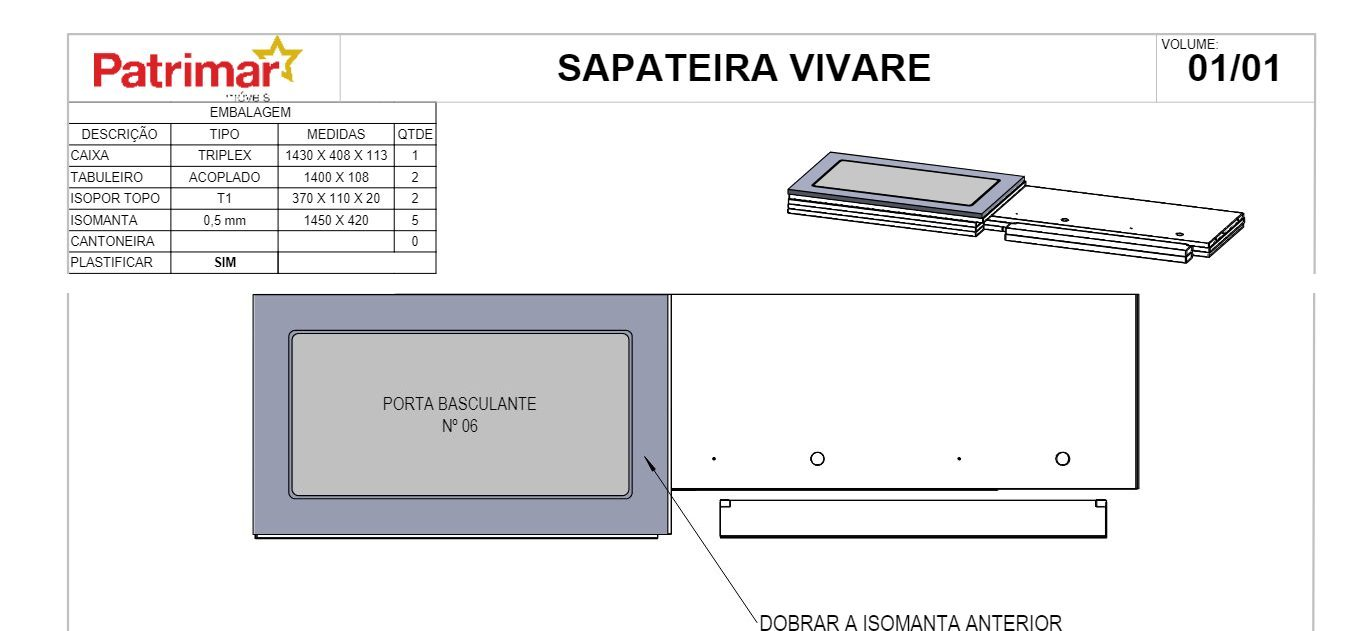
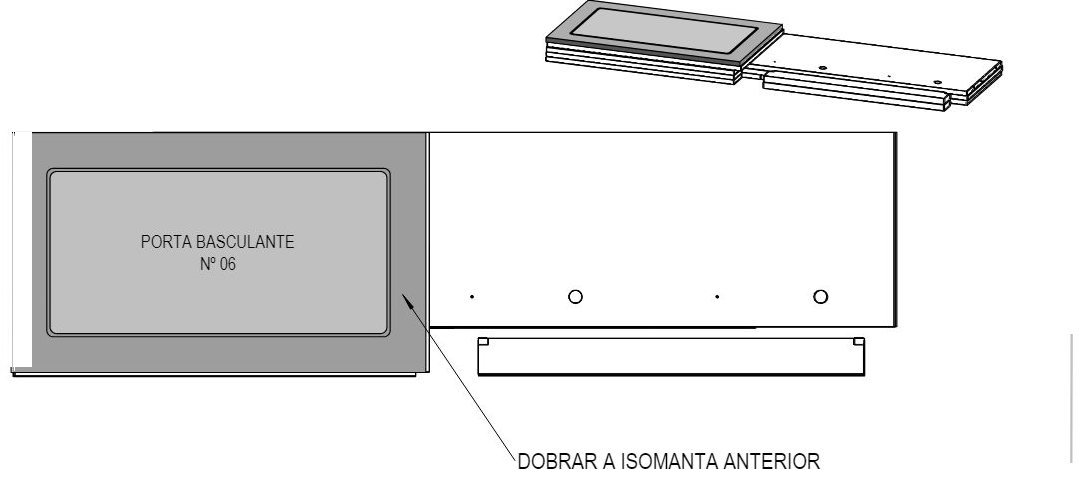
Remove cabecalho, tabela e moldura do desenho comparando as paginas
O cabecalho, a tabela de embalagem, a moldura e o rodape sao identicos em
todas as paginas do PDF; so o desenho muda de uma para outra. O gerador
passa a renderizar todas as paginas antes de cortar, compara cada uma com a
seguinte e apaga, em blocos, o que nao muda em nenhuma. Sai o que e template
sem adivinhar posicao nem depender do layout da folha.

O que isso muda na TV: a area total da imagem fica parecida, mas a peca
desenhada — que e o que o operador precisa ver — cresce 27%, porque deixa
de dividir o espaco com a tabela.

Detalhes que so apareceram testando com as sete camadas reais:
- o antialias faz a borda de uma peca variar um pouco entre paginas; o mapa
  do que muda e dilatado 4px para isso nao ser lido como template
- fragmento de borda da tabela tem pouca tinta e escapava; o limiar de tinta
  por bloco caiu para 3 pixels amostrados
- o numero da pagina muda por folha e por isso nao e template: sai pela regra
  de bloco fino e isolado no rodape
- o piso de seguranca do recorte de margem caiu de 35% para 20% da pagina,
  porque agora o conteudo legitimamente encolhe
- respiro de 2,5% embaixo, para a linha de chamada nao encostar na borda

As sete camadas da sapateira ja publicadas foram reprocessadas com o mesmo
metodo; nao precisam ser refeitas a partir do PDF.

Claude-Session: https://claude.ai/code/session_01Ap2hpVRudhbNiQHmqUC2gQ

diff --git a/gerador.html b/gerador.html
@@ -373,6 +373,67 @@ fileInput.addEventListener('change', e => {
  *    entao o corte nao usa intensidade: so remove faixa quase vazia LONGA,
  *    porque uma linha de chamada nunca ocupa 8% da altura sozinha.
  */
+
+/* O cabecalho, a tabela, a moldura e o rodape sao identicos em todas as paginas
+   do PDF; so o desenho muda de uma para outra. Comparando as paginas entre si,
+   o que nao muda e template e pode sair — sem adivinhar posicao nem depender
+   do layout da folha. Precisa de pelo menos duas paginas do mesmo tamanho. */
+function blocosTemplate(canvases) {
+  if (canvases.length < 2) return [];
+  const w = canvases[0].width, h = canvases[0].height;
+  if (canvases.some(c => c.width !== w || c.height !== h)) return [];
+  const cinza = canvases.map(c => {
+    const d = c.getContext('2d').getImageData(0, 0, w, h).data;
+    const g = new Uint8Array(w * h);
+    for (let i = 0, j = 0; i < g.length; i++, j += 4) g[i] = (d[j] * 299 + d[j+1] * 587 + d[j+2] * 114) / 1000;
+    return g;
+  });
+  const muda = new Uint8Array(w * h);
+  for (let k = 0; k < cinza.length - 1; k++) {
+    const a = cinza[k], b = cinza[k+1];
+    for (let i = 0; i < muda.length; i++) if (Math.abs(a[i] - b[i]) > 26) muda[i] = 1;
+  }
+  /* engorda 4px o que muda: o antialias faz a borda de uma peca variar um pouco
+     entre paginas, e isso nao pode ser lido como template */
+  const R = 4, tmp = new Uint8Array(w * h), dil = new Uint8Array(w * h);
+  for (let y = 0; y < h; y++) {
+    const off = y * w;
+    for (let x = 0; x < w; x++) {
+      let v = 0;
+      for (let dx = -R; dx <= R && !v; dx++) { const xx = x + dx; if (xx >= 0 && xx < w && muda[off + xx]) v = 1; }
+      tmp[off + x] = v;
+    }
+  }
+  for (let y = 0; y < h; y++) for (let x = 0; x < w; x++) {
+    let v = 0;
+    for (let dy = -R; dy <= R && !v; dy++) { const yy = y + dy; if (yy >= 0 && yy < h && tmp[yy * w + x]) v = 1; }
+    dil[y * w + x] = v;
+  }
+  /* grade de blocos: bloco com tinta que quase toda se repete e template.
+     Limiar de tinta baixo de proposito — fragmento de borda de tabela tem
+     pouca tinta e escapava. */
+  const p0 = cinza[0], NX = 28, NY = 22, blocos = [];
+  for (let j = 0; j < NY; j++) for (let i = 0; i < NX; i++) {
+    const x0 = Math.floor(w * i / NX), x1 = Math.floor(w * (i+1) / NX);
+    const y0 = Math.floor(h * j / NY), y1 = Math.floor(h * (j+1) / NY);
+    let tinta = 0, rep = 0;
+    for (let y = y0; y < y1; y += 2) for (let x = x0; x < x1; x += 2) {
+      const idx = y * w + x;
+      if (p0[idx] < 205) { tinta++; if (!dil[idx]) rep++; }
+    }
+    if (tinta >= 3 && rep / tinta > 0.85) blocos.push([x0, y0, x1 - x0, y1 - y0]);
+  }
+  return blocos;
+}
+
+function apagarBlocos(canvas, blocos) {
+  if (!blocos.length) return canvas;
+  const ctx = canvas.getContext('2d');
+  ctx.fillStyle = '#fff';
+  for (const b of blocos) ctx.fillRect(b[0], b[1], b[2], b[3]);
+  return canvas;
+}
+
 function apertarDesenho(canvas) {
   try {
     const w = canvas.width, h = canvas.height;
@@ -413,12 +474,14 @@ function apertarDesenho(canvas) {
     if (y < h) blocos.push([y, h]);
     if (blocos.length > 1) {
       const ult = blocos[blocos.length - 1];
-      if (ult[1] - ult[0] < h * 0.06) blocos.pop();   /* rodape administrativo */
+      if (ult[1] - ult[0] < h * 0.06) blocos.pop();   /* rodape / numero da pagina */
     }
+    if (blocos.length > 1 && blocos[0][1] - blocos[0][0] < h * 0.03) blocos.shift(); /* fio no topo */
     if (!blocos.length) return canvas;
 
     const RESP = Math.max(6, Math.floor(h * 0.02));
-    const alt = blocos.reduce((s, b) => s + (b[1] - b[0]), 0) + RESP * (blocos.length - 1);
+    const PAD = Math.floor(h * 0.025);   /* respiro embaixo: a chamada nao encosta na borda */
+    const alt = blocos.reduce((s, b) => s + (b[1] - b[0]), 0) + RESP * (blocos.length - 1) + PAD;
     if (alt >= h * 0.95) return canvas;              /* nao valeu o esforco */
 
     const out = document.createElement('canvas');
@@ -456,7 +519,7 @@ function recortarMargemBranca(canvas) {
     minx = Math.max(0, minx - M); miny = Math.max(0, miny - M);
     maxx = Math.min(w - 1, maxx + M); maxy = Math.min(h - 1, maxy + M);
     const cw = maxx - minx + 1, ch = maxy - miny + 1;
-    if (cw < w * 0.35 || ch < h * 0.35) return canvas; // recorte suspeito
+    if (cw < w * 0.20 || ch < h * 0.20) return canvas; // recorte suspeito
     if (cw > w * 0.95 && ch > h * 0.95) return canvas; // nao vale o esforco
     const out = document.createElement('canvas');
     out.width = cw; out.height = ch;
@@ -482,9 +545,11 @@ async function processar(file) {
 
   mostrarStatus(`Processando ${total} páginas...`, 0);
 
+  /* Duas passadas: a comparacao entre paginas so e possivel com todas
+     renderizadas, entao o corte final espera o fim da leitura. */
+  const canvases = [], paginas = [];
   for (let i = 1; i <= total; i++) {
-    mostrarStatus(`Processando página ${i} de ${total}...`, (i-1)/total * 100);
-
+    mostrarStatus(`Lendo página ${i} de ${total}...`, (i-1)/total * 70);
     const page = await pdf.getPage(i);
     const scale = 1.6;   // suficiente para TV; 2.2 gerava arquivo grande demais
     const viewport = page.getViewport({ scale });
@@ -492,12 +557,23 @@ async function processar(file) {
     canvas.width = viewport.width;
     canvas.height = viewport.height;
     await page.render({ canvasContext: canvas.getContext('2d'), viewport }).promise;
-    const imgBase64 = apertarDesenho(recortarMargemBranca(canvas)).toDataURL('image/jpeg', 0.82);
-
     const { components, obs } = await extrairComponentes(page);
-    const opName = 'CAMADA ' + String(i).padStart(2, '0');
-    pagesData.push({ img: imgBase64, op: opName, components, obs });
-    adicionarCard(i - 1, opName, imgBase64, components, obs);
+    canvases.push(canvas); paginas.push({ components, obs });
+  }
+
+  mostrarStatus('Separando o desenho do cabeçalho...', 75);
+  await new Promise(r => setTimeout(r, 30));
+  const blocos = blocosTemplate(canvases);
+
+  for (let i = 0; i < total; i++) {
+    mostrarStatus(`Preparando camada ${i+1} de ${total}...`, 75 + (i+1)/total * 25);
+    const c = apagarBlocos(canvases[i], blocos);
+    const imgBase64 = recortarMargemBranca(apertarDesenho(recortarMargemBranca(c)))
+                        .toDataURL('image/jpeg', 0.82);
+    const opName = 'CAMADA ' + String(i + 1).padStart(2, '0');
+    pagesData.push({ img: imgBase64, op: opName, components: paginas[i].components, obs: paginas[i].obs });
+    adicionarCard(i, opName, imgBase64, paginas[i].components, paginas[i].obs);
+    canvases[i] = null;
   }
 
   mostrarStatus(`${total} páginas processadas! Revise os componentes e clique em Gerar.`, 100);
